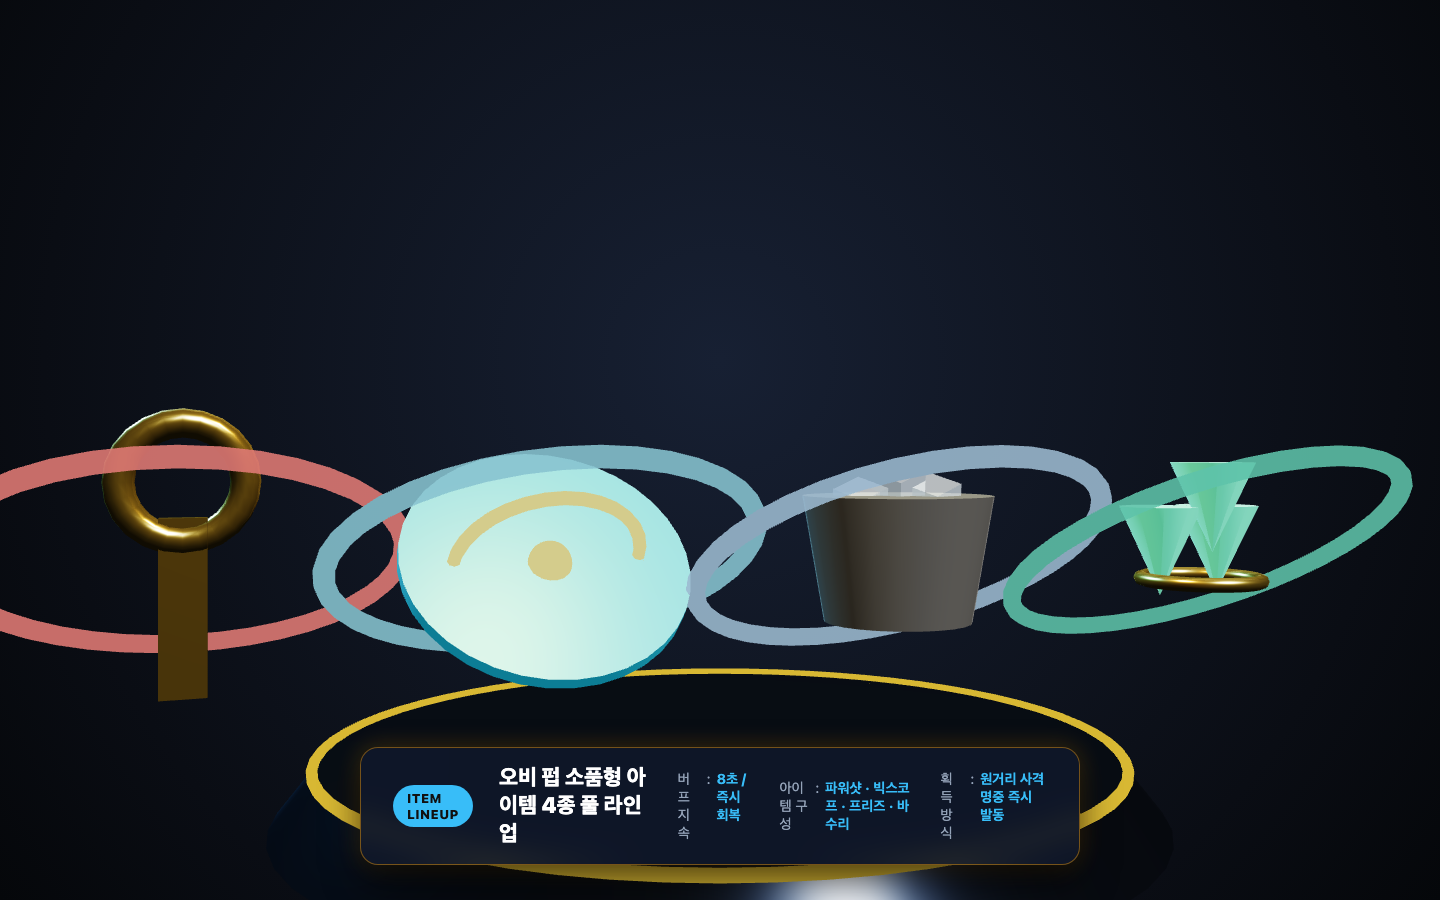
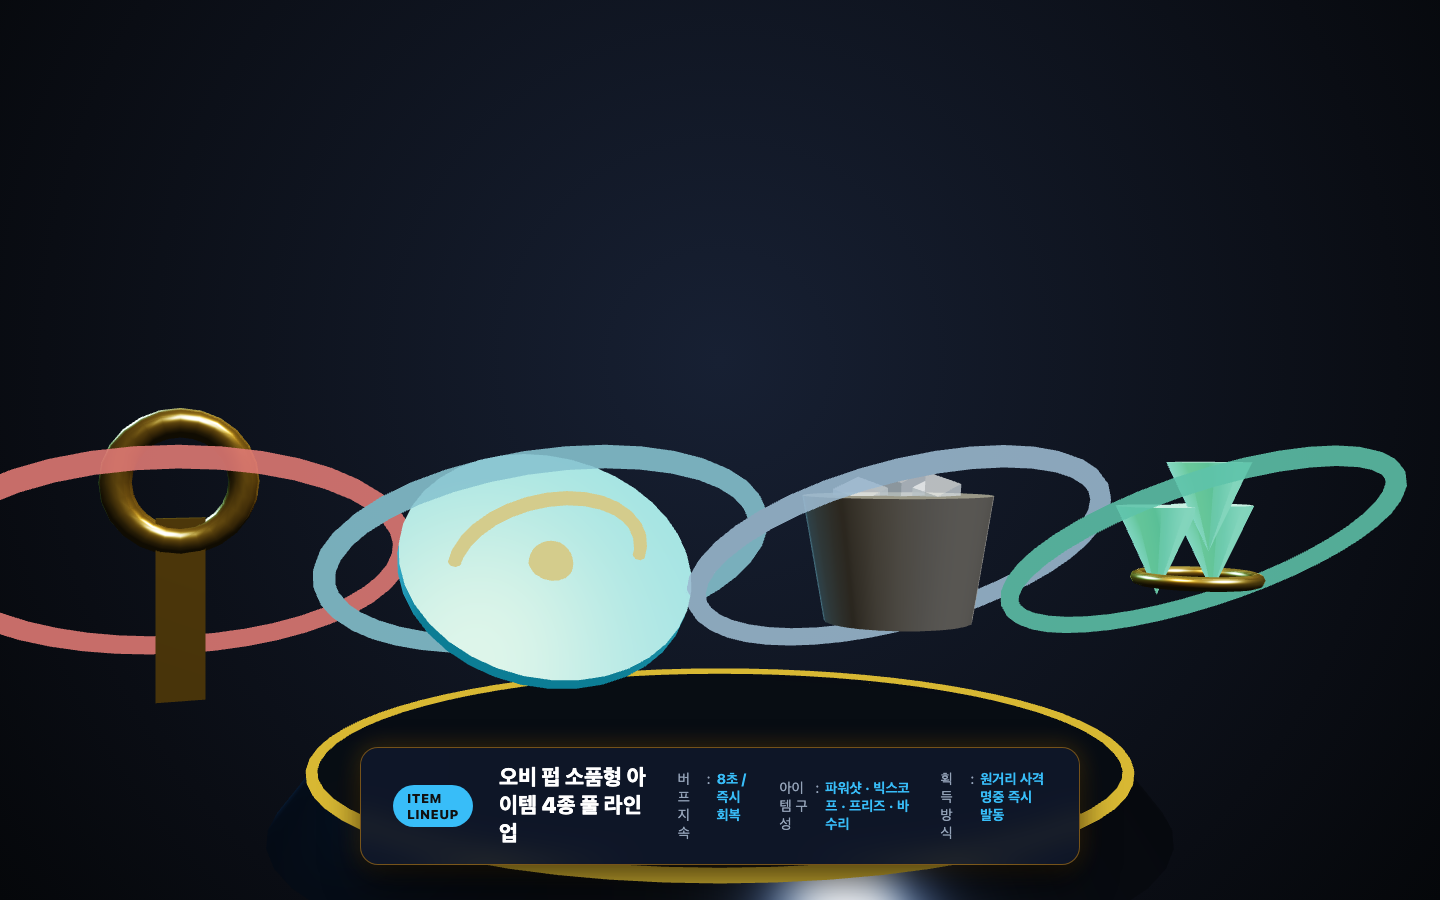
docs: refresh monster/item codex, gameplay screens, and studio assets with Cass bottle and live 3D VFX
- Recapture all 6 monster studio renders featuring All New Cass 500ml transparent bottle
- Recapture full 6-monster lineup, 4-item lineup, and active in-game gameplay screen (screen-04-pc-gameplay.png)
- Update 몬스터_도감_설명서.md with Cass Fresh bottle profile, 3D live item VFX descriptions, and updated image links
- Update 구동화면_쇼케이스.md with Cass bottle, 5-life bar defense, and golden cannon/frost/lock-on status effects

diff --git a/docs/monster-studio.html b/docs/monster-studio.html
@@ -202,6 +202,13 @@
         glassBody.position.y = 0.4;
         g.add(glassBody);
 
+        // Cass Fresh Label mapped cylinder
+        const labelTex = loadLabelTex('bottle');
+        const labelMat = new THREE.MeshStandardMaterial({ map: labelTex, roughness: 0.35, metalness: 0.1 });
+        const labelMesh = new THREE.Mesh(new THREE.CylinderGeometry(0.423, 0.423, 0.46, 24), labelMat);
+        labelMesh.position.y = 0.38;
+        g.add(labelMesh);
+
         // Shoulder
         const shoulder = new THREE.Mesh(new THREE.CylinderGeometry(0.18, 0.42, 0.28, 24), glassMat);
         shoulder.position.y = 0.94;

diff --git a/docs/몬스터_도감_설명서.md b/docs/몬스터_도감_설명서.md
@@ -49,7 +49,7 @@
 - **특징**: 2HP 내구도와 3.2 m/s의 준수한 속도를 겸비한 엘리트 타겟입니다. 처치 시 90점의 높은 스코어를 지급하므로 콤보 보너스를 유지할 때 우선 타겟팅을 권장합니다.
 
 #### 5. 카스 프레시 500ml 병맥주 (Cass Fresh Bottle) — *올 뉴 카스 물리 유리병 크루저*
-![카스 프레시 병맥주](./screens/monster-05-draft-mug.png)
+![카스 프레시 병맥주](./screens/monster-05-cass-bottle.png)
 - **타입**: 지상 중형 크루저 (Ground Heavy, 고도 `0.55m`)
 - **외형**: 투명 PBR 물리 굴절 유리(`transmission: 0.88`, `ior: 1.52`), 카스 딥 블루/실버 1024×512 라벨, 상단 은색 왕관 뚜껑(크라운 캡), 내부 황금빛 맥주 액체와 상승 탄산 기포 비즈
 - **특징**: 3HP의 단단한 체력을 지닌 중장갑 병맥주 타겟입니다. 1~2타 피격 시 단단한 유리 타격음이 발생하며, 3타 격파 시 경쾌한 "뻥!" 오픈 사운드와 함께 은색 크라운 뚜껑이 위로 높이 솟구치고 투명 유리 파편과 맥주 분수가 사방으로 뿜어져 나옵니다. 모바일 0.25초 래피드 홀드(연사)나 피버 모드로 신속하게 처리하세요!
@@ -85,7 +85,7 @@
 #### 1. 💥 파워 샷 (황금 병따개)
 ![파워 샷](./screens/item-01-power-shot.png)
 - **외형**: 번쩍이는 골드 황동 병따개 핸들과 링 헤드, 붉은색 회전 오라 링
-- **발동 효과**: 8초간 총기에서 발사되는 모든 레이저 빔이 붉은색으로 강화되며, 사격 데미지가 **2배(1발당 2 데미지)**로 증가합니다.
+- **발동 효과**: 8초간 3D 총기(생맥주 탭 건)가 **황금 '골든 드래프트 캐논'으로 진화**하고 총구에 붉은 화염 오라가 점등되며, 발사되는 모든 레이저 빔이 붉은색으로 강화되어 사격 데미지가 **2배(1발당 2 데미지)**로 증가합니다.
 - **실전 팁**:
   - 체력 2인 오비라거와 한맥을 **단 1발로 격파(One-Shot One-Kill)**할 수 있습니다.
   - Wave 5 보스 레이드 시 피버 모드와 조합하면 보스 HP 40을 순식간에 녹여버릴 수 있는 최우선 타겟 아이템입니다.
@@ -93,7 +93,7 @@
 #### 2. 🎯 빅 스코프 (오비 맥주 코스터)
 ![빅 스코프](./screens/item-02-wide-scope.png)
 - **외형**: 원형 블루 오비 맥주 코스터에 노란색 동심원 타겟 과녁이 새겨진 디스크 소품, 하늘색 회전 오라 링
-- **발동 효과**: 8초간 화면 중앙의 조준경이 **88px에서 140px로 1.6배 대형화**되며, 모든 몬스터의 유효 타격 판정 면적이 1.6배 넓어집니다.
+- **발동 효과**: 8초간 화면 중앙의 조준경이 **88px에서 140px로 1.6배 대형화**되며, 총구 전방에 **미래형 홀로그램 레이저 가이드 빔**이 전개되고 모든 몬스터 머리 위에 **푸른색 록온(Lock-On) 마커**가 점등되어 유효 타격 판정 면적이 1.6배 넓어집니다.
 - **실전 팁**:
   - 조준이 미세하게 빗나가도 `PERFECT` 및 `GREAT` 판정을 쉽게 띄울 수 있어 피버 게이지를 순식간에 100%까지 채우는 최고의 빌드업 아이템입니다.
   - 고속으로 회피 기동하는 공중 필굿·카스라이트 떼를 손쉽게 쓸어 담을 수 있습니다.
@@ -101,7 +101,7 @@
 #### 3. 🧊 아이스 프리즈 (얼음 버킷)
 ![아이스 프리즈](./screens/item-03-ice-freeze.png)
 - **외형**: 은색 스테인리스 얼음 버킷 안에 차가운 각얼음 3개가 담긴 소품, 푸른 냉기 오라 링
-- **발동 효과**: 8초간 무대 위에 존재하는 모든 몬스터의 돌격 속도가 **절반(50% 감속)**으로 느려집니다.
+- **발동 효과**: 8초간 무대 위의 모든 몬스터 전신에 **푸른 서리 결빙 틴트(`0x93c5fd`) 코팅**과 발밑 **회전 얼음 링**이 부여되며, 돌격 속도가 **절반(50% 감속)**으로 느려집니다.
 - **실전 팁**:
   - 몬스터들이 1.8m 방어선 코앞까지 밀고 들어와 비상경보(Red Alert)가 울릴 때 시간을 벌어주는 절대적인 방어형 아이템입니다.
   - 슬로우가 걸려 있는 동안 자동 재장전(1.2s)을 안전하게 마치고 차분하게 정밀 조준을 이어갈 수 있습니다.
@@ -109,7 +109,7 @@
 #### 4. 🍺 바 수리 (홉 열매 다발)
 ![바 수리](./screens/item-04-bar-repair.png)
 - **외형**: 싱싱한 에메랄드빛 홉 솔방울 3송이와 골드 리본 장식, 초록색 회전 오라 링
-- **발동 효과**: 피격당해 손상된 바 카운터 방어선 체력(`🍺`)을 **즉시 +1 회복**합니다. (최대 5개까지 완충 가능)
+- **발동 효과**: 1.8m 원목 바 카운터 방어선에 **에메랄드빛 치유 펄스(Green Shield Pulse) 파동**이 촤르륵 확산되며, 손상된 바 카운터 방어선 체력(`🍺`)을 **즉시 +1 회복**합니다. (최대 5개까지 완충 가능)
 - **실전 팁**:
   - 체력이 가득 찬 상태(5/5)에서는 추가로 늘어나지 않으므로, 체력이 1~4개로 깎인 위기 상황에서 침착하게 사격하여 체력을 복구하세요.
 
